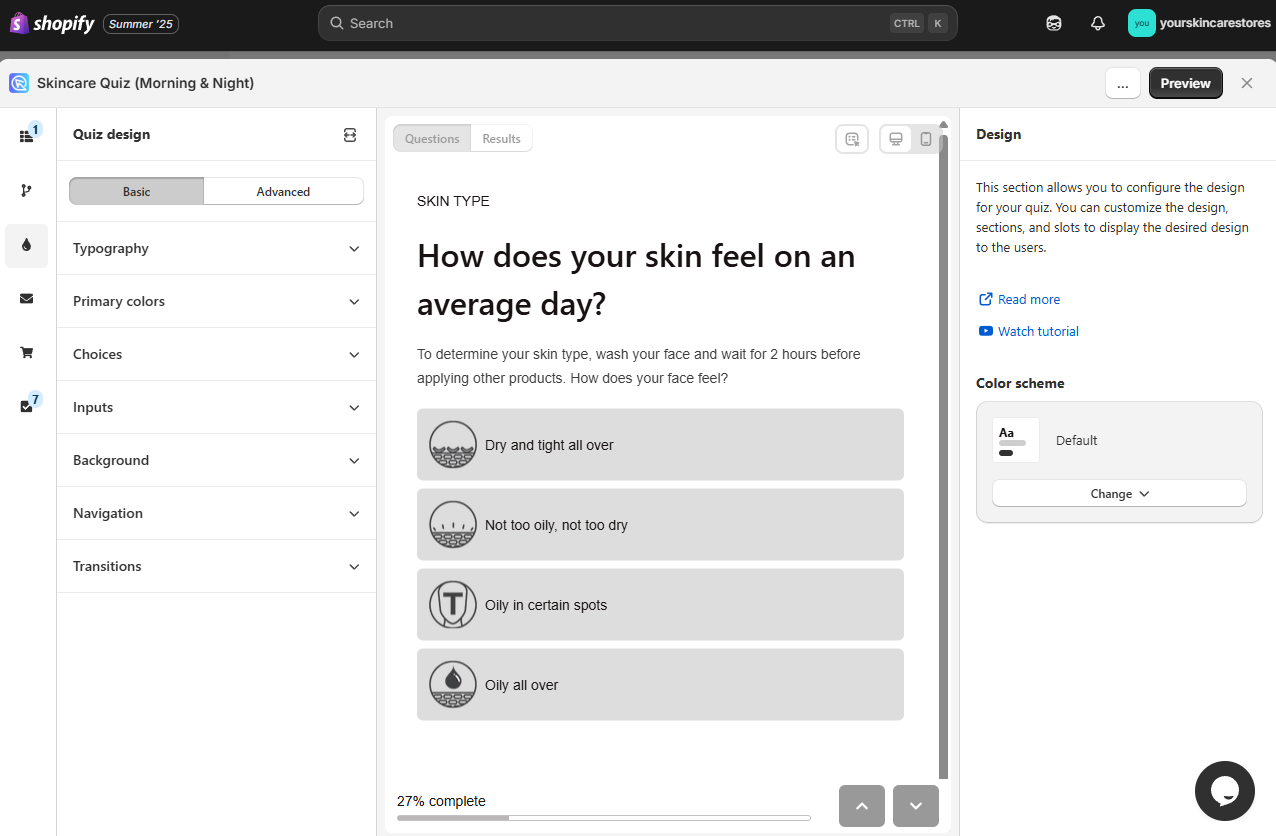
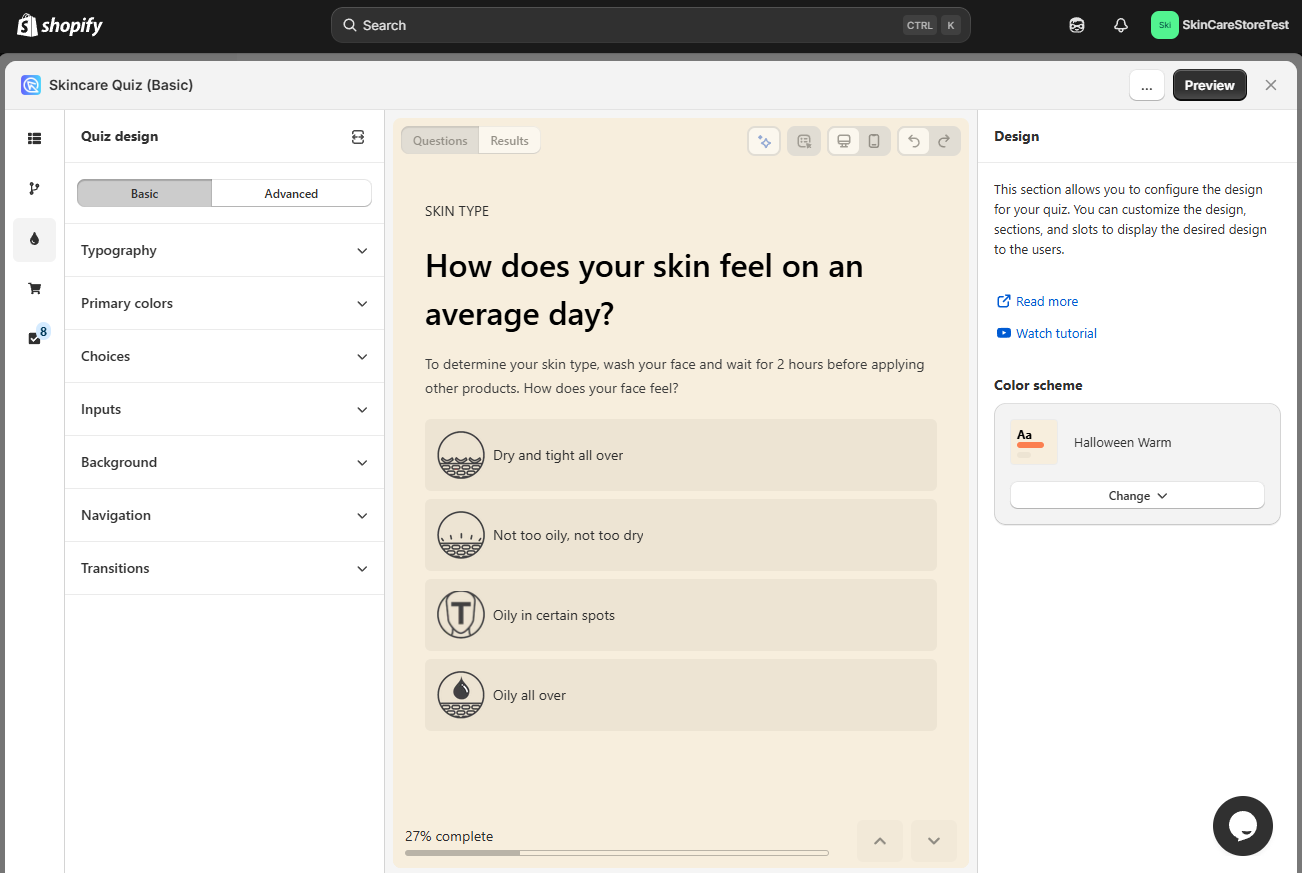
docs: update quiz design documentation with new AI assistance feature and replace outdated images

diff --git a/docs/reference/quiz-builder/quiz-design.md b/docs/reference/quiz-builder/quiz-design.md
@@ -196,6 +196,8 @@
 
         For a detailed overview of the CSS structure of the app and CSS examples, see the [App CSS Structure](/reference/css-structure/) reference.
 
+    `✨Get help with custom CSS` - Opens a chat window with the Quiz Copilot AI. It can directly make design changes with CSS code.	
+
 
 === "WooCommerce"
 
